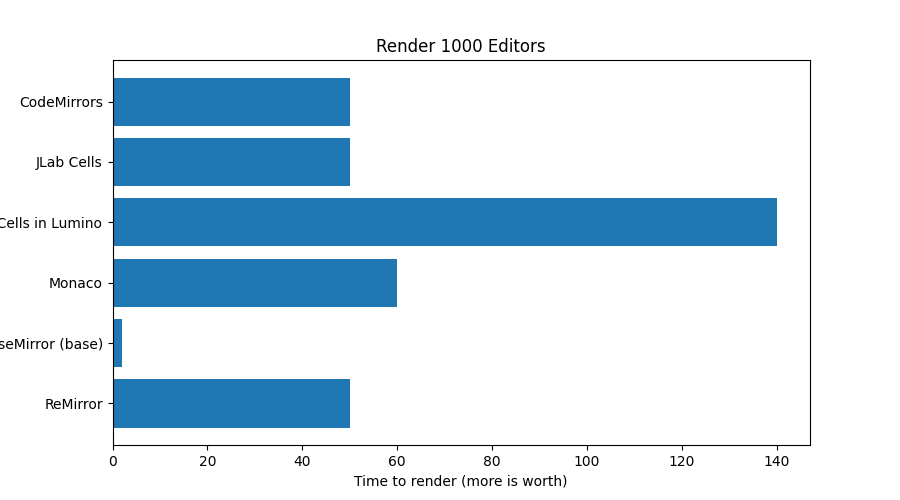
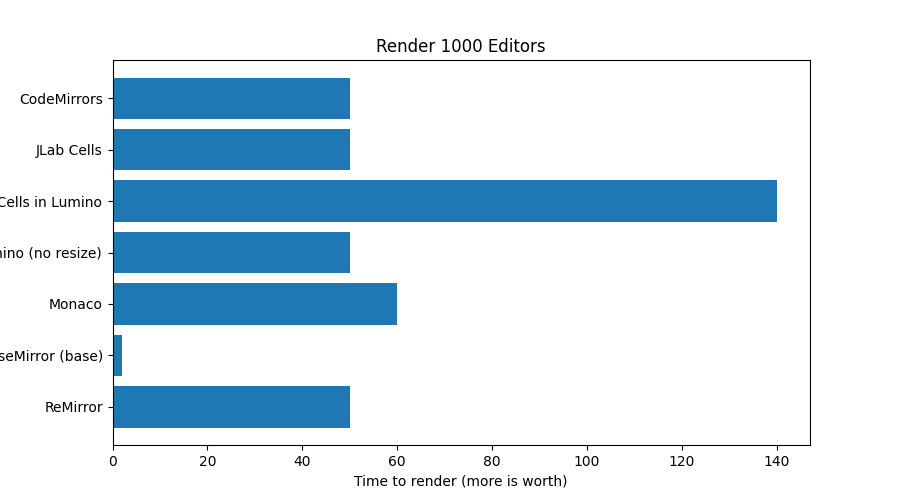
More experience on lumino

diff --git a/experiments/cell-lumino/src/index.ts b/experiments/cell-lumino/src/index.ts
@@ -1,4 +1,4 @@
-import { BoxPanel, Widget } from '@lumino/widgets';
+import { BoxPanel as Panel, Widget } from '@lumino/widgets';
 
 import { CodeCellModel, CodeCell } from '@jupyterlab/cells';
 import {
@@ -13,12 +13,12 @@ import '../style/index.css';
 
 const NUMBER_OF_CELLS = 1000;
 
-const panel = new BoxPanel();
-panel.id = 'main';
-panel.direction = 'top-to-bottom';
-panel.spacing = 0;
-
 const editorContent = document.querySelector("#editor-content");
+
+const panel = new Panel();
+panel.id = 'main';
+// panel.direction = 'top-to-bottom';
+// panel.spacing = 0;
 Widget.attach(panel, editorContent as HTMLElement);
 
 for (let i = 0; i < NUMBER_OF_CELLS; i++) {
